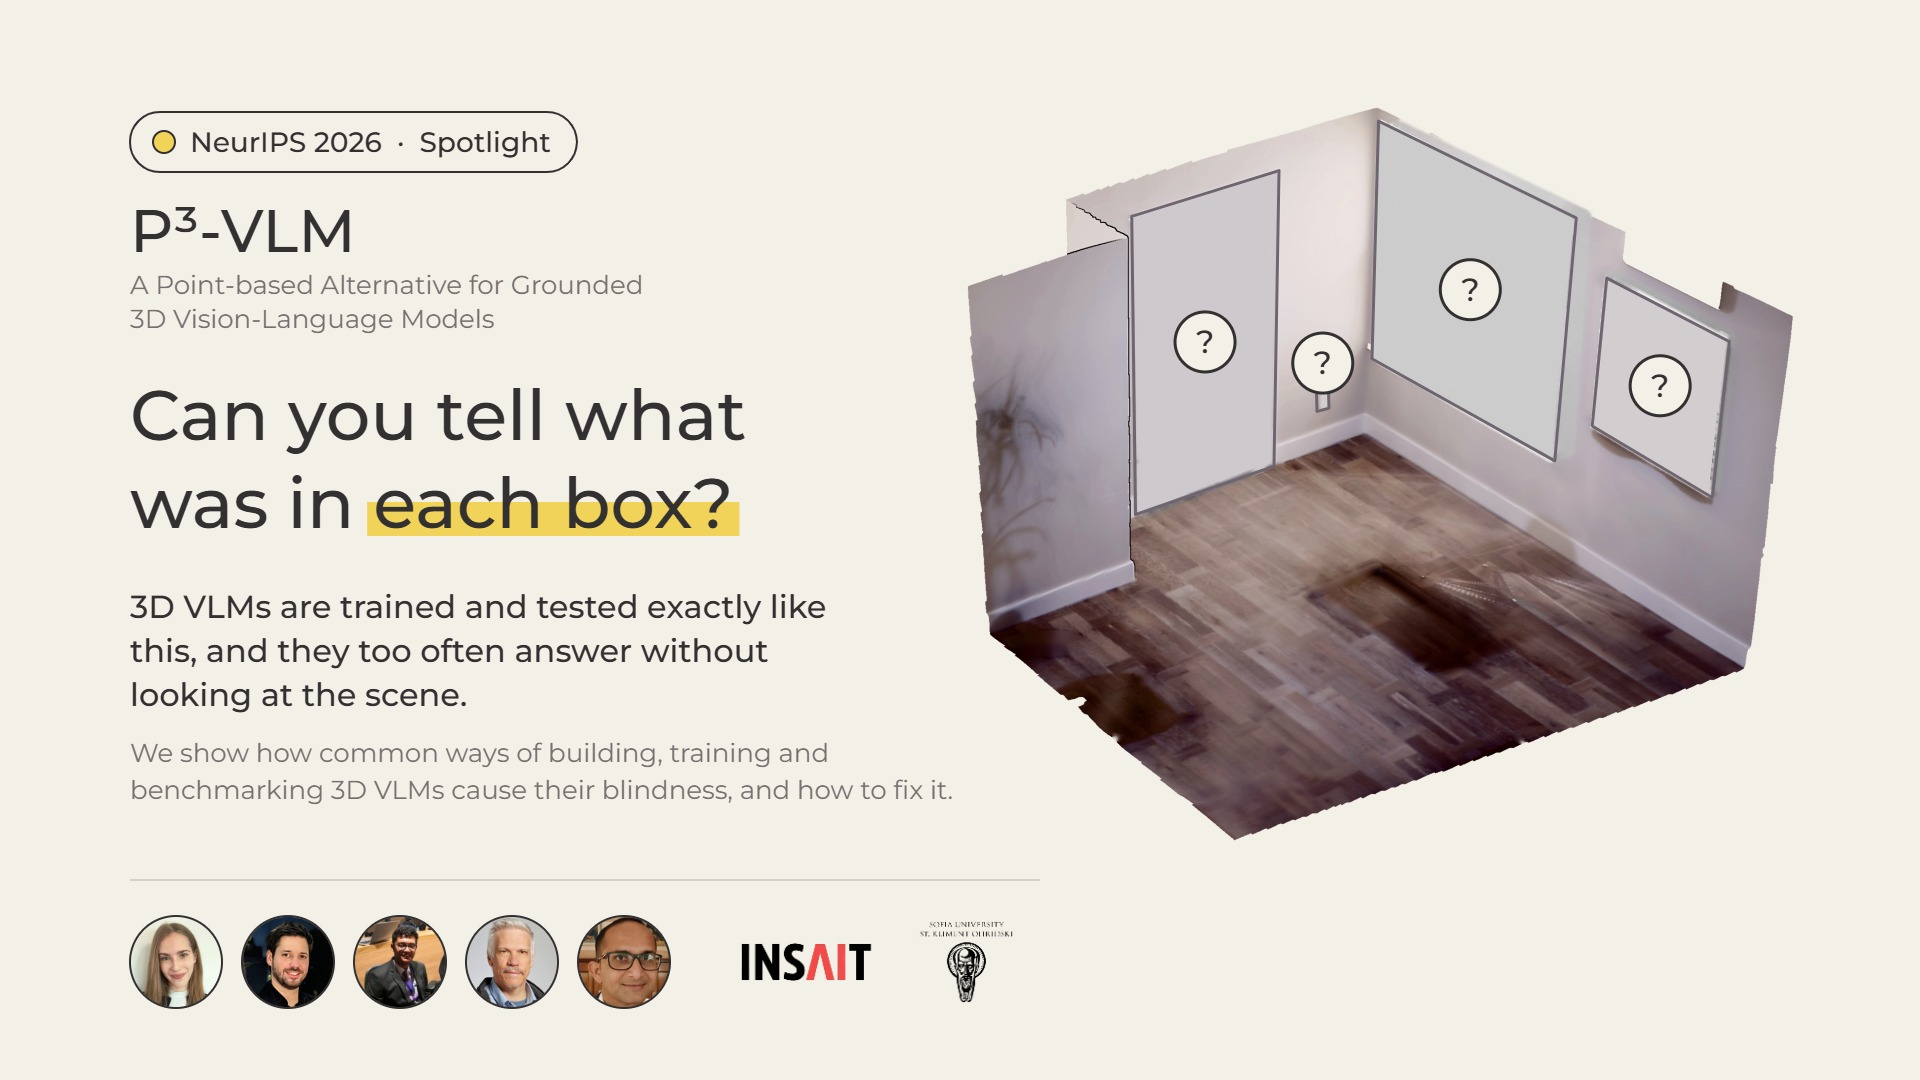
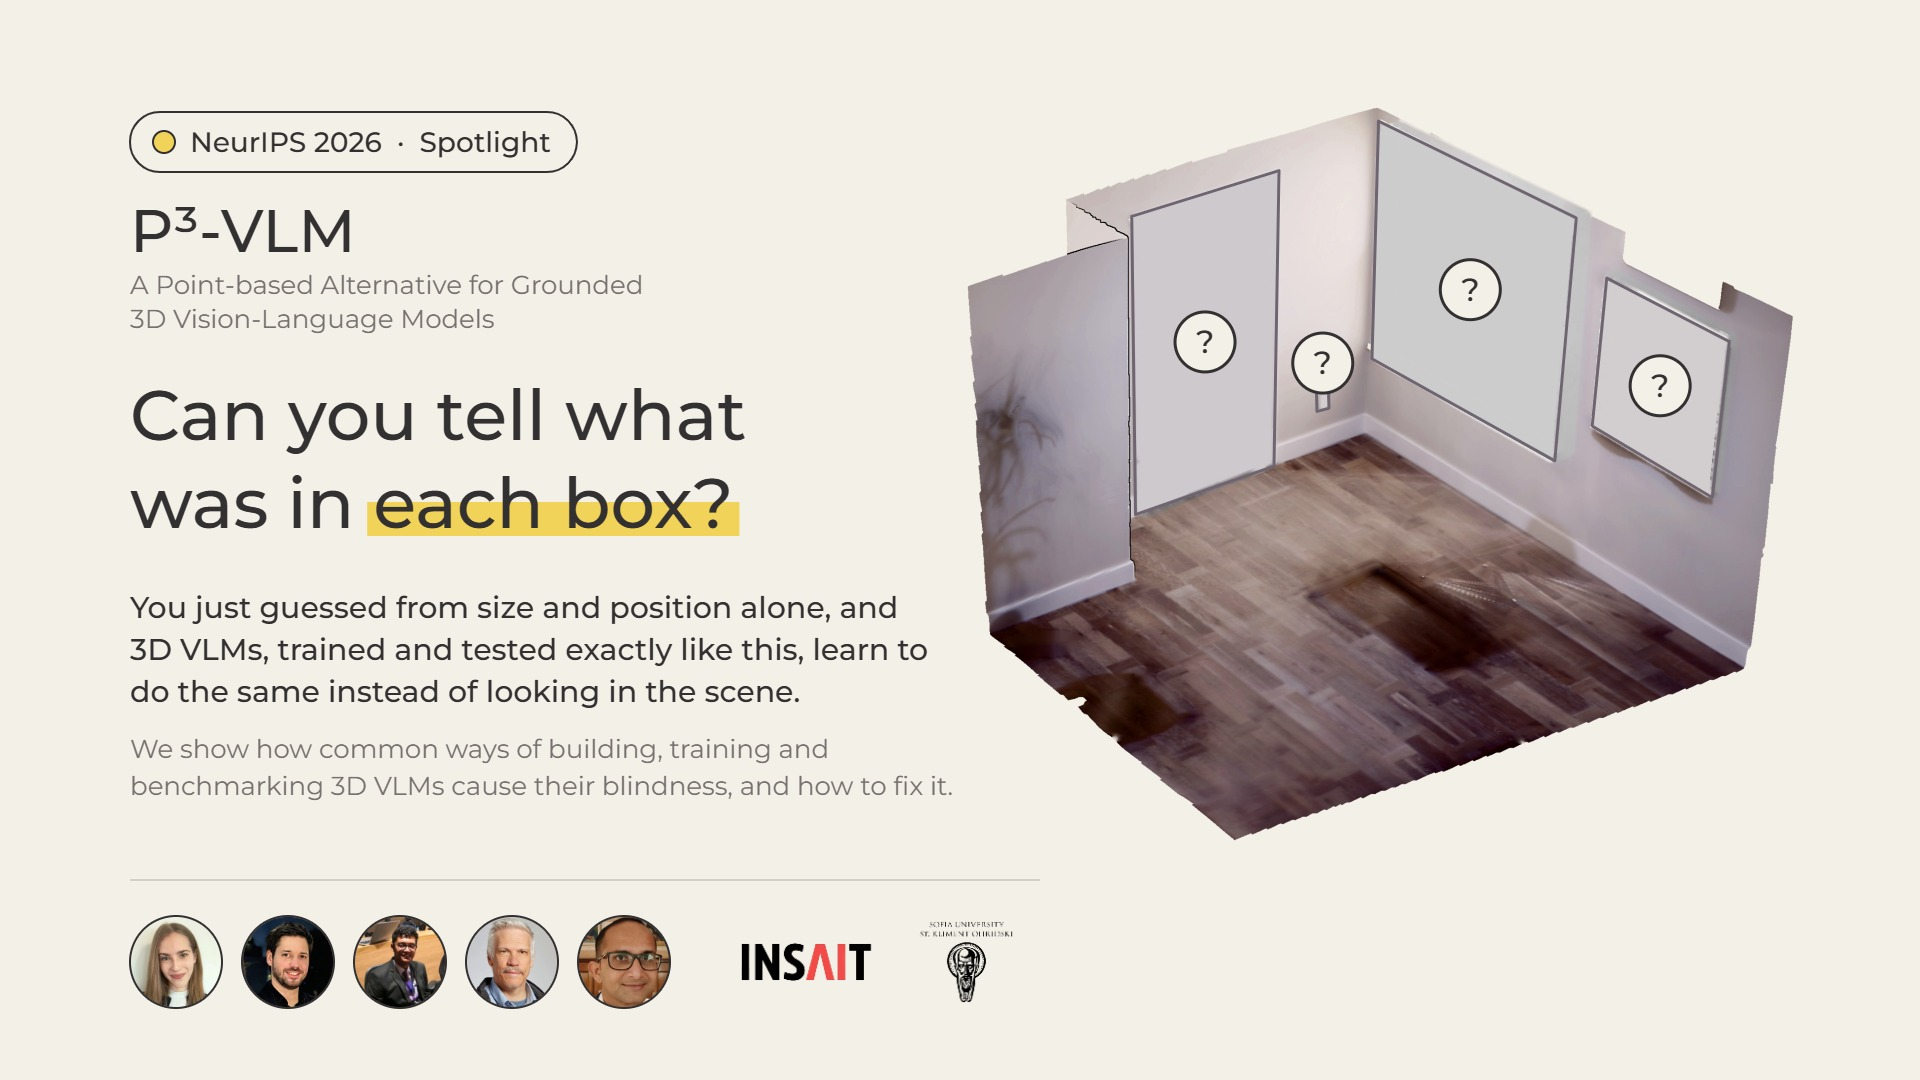
update video

Changed region(s): [[0.0625, 0.55, 0.5, 0.7639]]

diff --git a/index.html b/index.html
@@ -55,7 +55,7 @@
 <section class="wrap video-wrap" id="video" aria-label="Explainer video">
   <!-- TODO(video): swap for the final hosting URL (e.g. YouTube) if the file should not live in the repo. -->
   <div class="player">
-    <video src="static/video/p3vlm_video_v3.mp4" poster="static/img/poster.jpg?v=4" playsinline preload="metadata"
+    <video src="static/video/p3vlm_video_v3.mp4" poster="static/img/poster.jpg?v=5" playsinline preload="metadata"
            aria-label="72-second silent explainer video of P³-VLM"></video>
     <button type="button" class="play" aria-label="Play the explainer video">
       <svg viewBox="0 0 24 24" aria-hidden="true"><path d="M9 6.5v11l9-5.5z"/></svg><span>Watch the video · 1:12</span>
